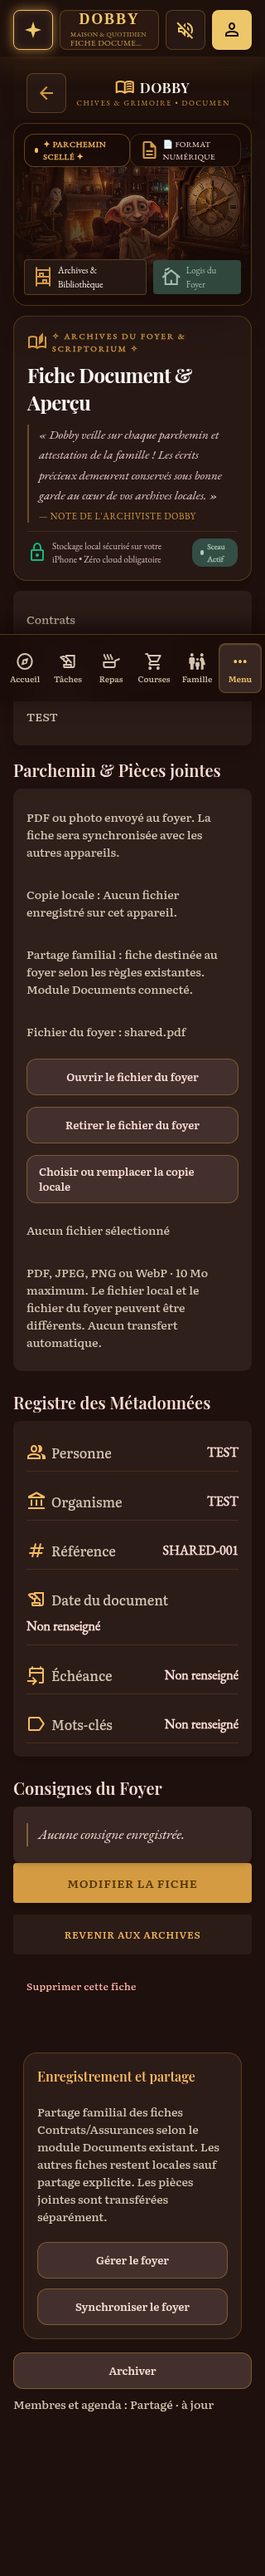
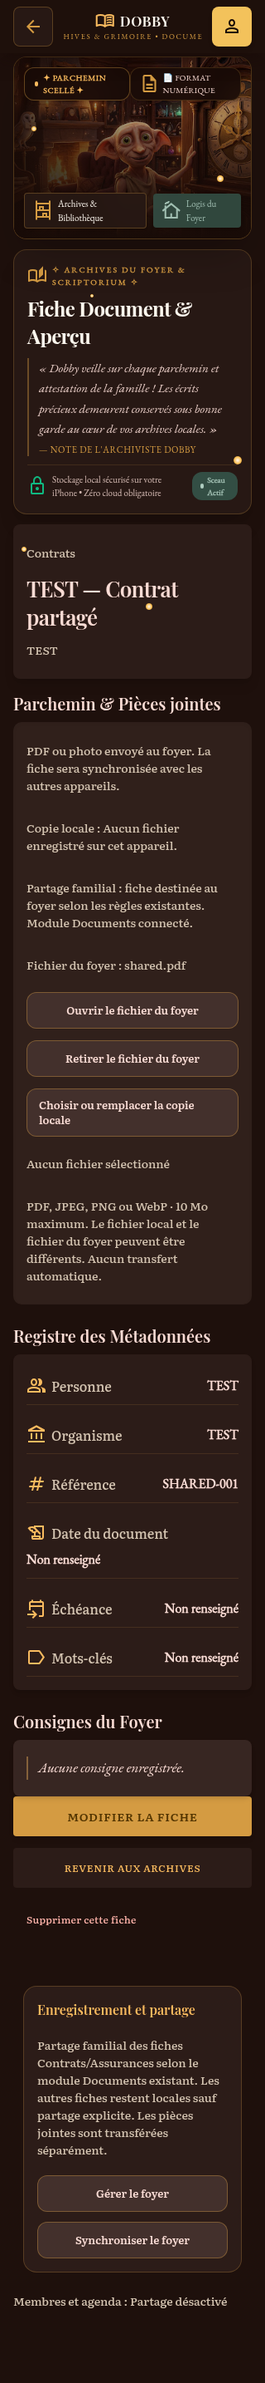
Maintain verified scope across refresh and filter foreign rows safely

diff --git a/essai-stitch-v7/family-engine.js b/essai-stitch-v7/family-engine.js
@@ -7,11 +7,13 @@ window.DobbyFamilyStitchEngine=(()=>{
  const guardSharedWrite=()=>{if(window.DobbyFamilyStitch?.sharedReadOnly?.())throw Error('Les données du foyer sont en lecture seule pour ce profil.');};
  function notices(callback){win().alert=message=>{lastError=String(message);callback(lastError);};}
  function read(){
-  const state=evaluate('return JSON.parse(JSON.stringify(st));');
+  const native=win(),access=native.DobbyFamilyUI?.childAccessState?.();
+  const waiting=access?.restricted&&!access.active;
+  const state=waiting?{}:evaluate('return JSON.parse(JSON.stringify(st));');
   window.DobbyHealthRuntime?.filterHistoricalState(state);
   const data={state,members:state.familyMembers||[],local:state.famHealth||[],shared:state.sharedHealthVisits||[],events:state.familyEvents||[],contacts:state.famContacts||[]};
-  data.active=Boolean(win().DobbyFamilyUI?.isModuleActive('family'));data.status=win().DobbyFamilyUI?.getModuleStatus('family')||'Statut non disponible';
-  data.upcoming=win().DobbyFamilyAgenda?.upcoming()||[];return data;
+  data.active=!waiting&&Boolean(native.DobbyFamilyUI?.isModuleActive('family'));data.status=waiting?'Accès en cours de vérification.':native.DobbyFamilyUI?.getModuleStatus('family')||'Statut non disponible';
+  data.upcoming=waiting?[]:native.DobbyFamilyAgenda?.upcoming()||[];return data;
  }
  function rewardSummary(memberId){return win().DobbyFamilyMissions?.summary(memberId)||null;}
  function page(extra=''){evaluate('st.page="family";st.extraPage=p.extra;st.detail=null;v23MemberEdit=null;render();',{extra});}

diff --git a/essai-stitch-v5-famille/family-v2.js b/essai-stitch-v5-famille/family-v2.js
@@ -395,10 +395,11 @@ async function healthStorageFetch(method, path, file) {
   if (!healthFileMatches(downloaded, mime)) throw Error('Fichier Santé inattendu.');
   return downloaded;
 }
-async function requireHousehold(startProvider = true) {
+async function requireHousehold(startProvider = true, keepVerified = false) {
   if (!f.session?.user_id) throw Error('Compte sans identifiant utilisateur');
   const epoch = f.epoch;
-  f.checkingEpoch=epoch;f.verifiedContext = null;
+  f.checkingEpoch=epoch;
+  if(!keepVerified)f.verifiedContext=null;
   const rows = await authorized('GET', 'dobby_v2_memberships?select=household_id&active=eq.true&user_id=eq.' +
     encodeURIComponent(f.session.user_id));
   if (epoch !== f.epoch) throw Error('Session remplacée');
@@ -1042,7 +1043,7 @@ function ensureAccess(){
     guard();
     const child=childRelease()&&context.profile.memberCategory==='child';
     try {
-     await requireHousehold(!childRelease());guard();
+     await requireHousehold(!childRelease(),childRelease()&&Boolean(verifiedBinding()));guard();
      if(f.householdId!==context.householdId)throw Error('Le contexte serveur ne correspond pas au foyer autorisé.');
      if(!f.provider?.adoptVerifiedFamily)throw Error('Le registre familial natif est indisponible.');
      const binding={...context,identityVerified:true};

diff --git a/essai-stitch-v7/cuisine-engine.js b/essai-stitch-v7/cuisine-engine.js
@@ -20,6 +20,11 @@ window.DobbyCuisineEngine = (() => {
     evaluate('st.extraPage=""; st.detail=p.detail; st.page=p.page; st.cook=false; st.tmEditor=false; st.tmView=false; render();', { page, detail });
   }
   function read(mealContext=null) {
+    const access=childAccess();
+    if(access?.restricted&&!access.active)return {
+      state:{planned:{},tmAdaptations:{},famHealth:[],sharedHealthVisits:[],familyDocs:[]},
+      recipes:[],customIds:[],baseIds:[],draft:[],pending:0,batch:null,detailPortions:0,mealStatus:null
+    };
     const data = evaluate('return {state:JSON.parse(JSON.stringify(st)),recipes:JSON.parse(JSON.stringify(allRecipes())),customIds:custom.map(r=>r.id),baseIds:BASE.map(r=>r.id),draft:shoppingDraft(),pending:pendingMeals().length,batch:batchCandidate,detailPortions:st.detail?(Object.values(st.planned).find(m=>m.id===st.detail)?portionCount(Object.values(st.planned).find(m=>m.id===st.detail)):st.people):st.people};');
     window.DobbyHealthRuntime?.filterHistoricalState(data.state);
     if(childAccess()?.restricted){

diff --git a/docs/dobby-v7/comptes-enfants/tests/run-local.py b/docs/dobby-v7/comptes-enfants/tests/run-local.py
@@ -20,12 +20,43 @@ lot1 = run_path(str(DOC / 'runes-lot1/test-postgres.py'))
 docker, sql, rpc, op, uid, quote, encode = (lot1[k] for k in ('docker','sql','rpc','op','uid','quote','encode'))
 container, image = lot1['CONTAINER'], lot1['IMAGE']
 rest = container + '-rest'
+storage = container + '-storage'
 JWT_KEY = uuid4().hex + uuid4().hex
 REST_IMAGE = 'postgrest/postgrest:v14.8@sha256:4173b72e0be29cf15349dc827798c3e464c5f2cc7f9c1697022f9cd1874b4c36'
+STORAGE_IMAGE = 'supabase/storage-api:v1.89.12@sha256:8526956cb462e9f7d392e9848ec77133b2769982ed614e9753cc687e8e4339a6'
 
 
 def setup_storage():
-    sql("""
+    if args.storage_http:
+        docker('run','--rm','--detach','--name',storage,'--network',container,'--publish','127.0.0.1::5000',
+               '-e',f'DATABASE_URL=postgres://dobby_lot1_admin@{container}:5432/dobby_lot1',
+               '-e',f'AUTH_JWT_SECRET={JWT_KEY}','-e','DB_INSTALL_ROLES=true','-e','STORAGE_BACKEND=file',
+               '-e','FILE_STORAGE_BACKEND_PATH=/tmp/dobby-child-files','-e','GLOBAL_S3_BUCKET=fixture',
+               '-e','FILE_SIZE_LIMIT=1048576','-e','NODE_ENV=test','-e','TENANT_ID=fixture',
+               '-e','REGION=local','-e','S3_PROTOCOL_ENABLED=false',STORAGE_IMAGE)
+        global storage_origin
+        storage_origin = 'http://' + docker('port',storage,'5000/tcp')
+        for _ in range(100):
+            try:
+                with urlopen(storage_origin+'/status',timeout=2) as response:
+                    if response.status==200:
+                        break
+            except OSError:
+                time.sleep(.2)
+        else:
+            raise RuntimeError('Le service Storage local ne démarre pas.')
+        sql("""
+          GRANT USAGE ON SCHEMA storage TO postgres;
+          ALTER TABLE storage.objects OWNER TO postgres;
+          ALTER TABLE storage.buckets OWNER TO postgres;
+          INSERT INTO storage.buckets(id,name,public)
+            SELECT bucket,bucket,false FROM unnest(ARRAY['dobby-family-files','dobby-recipe-images','dobby-health-files']) bucket;
+          GRANT SELECT ON storage.buckets TO authenticated;
+          CREATE POLICY fixture_bucket_metadata ON storage.buckets FOR SELECT TO authenticated
+            USING(id='dobby-family-files');
+        """)
+    else:
+        sql("""
         CREATE SCHEMA storage AUTHORIZATION postgres;
         CREATE TABLE storage.buckets(id text PRIMARY KEY,public boolean NOT NULL);
         ALTER TABLE storage.buckets OWNER TO postgres;
@@ -34,6 +65,8 @@ def setup_storage():
         ALTER TABLE storage.objects OWNER TO postgres;
         CREATE FUNCTION storage.foldername(name text) RETURNS text[] LANGUAGE sql IMMUTABLE
           AS $$ SELECT (string_to_array(name,'/'))[1:array_length(string_to_array(name,'/'),1)-1] $$;
+        """)
+    sql("""
         GRANT USAGE ON SCHEMA storage TO authenticated;
         GRANT SELECT,INSERT,UPDATE,DELETE ON storage.objects TO authenticated;
         ALTER TABLE storage.objects ENABLE ROW LEVEL SECURITY;
@@ -49,6 +82,35 @@ def jwt(actor):
         return base64.urlsafe_b64encode(value).decode().rstrip('=')
     body = b64(b'{"alg":"HS256","typ":"JWT"}') + '.' + b64(json.dumps({'sub':actor,'role':'authenticated','exp':int(time.time())+300}).encode())
     return body + '.' + b64(hmac.digest(JWT_KEY.encode(),body.encode(),'sha256'))
+
+
+def check_storage_http(household, a, b, child, sibling, outsider):
+    content = b'%PDF-1.4\nTEST document familial fictif\n'
+    path = household + '/' + op() + '.pdf'
+
+    def storage_request(method, endpoint, who, data=None):
+        headers = {'Content-Type':'application/pdf','Cache-Control':'private, no-store','x-upsert':'false'}
+        if who:
+            headers['Authorization'] = 'Bearer '+jwt(who)
+        try:
+            response = urlopen(Request(storage_origin+endpoint,data=data,headers=headers,method=method),timeout=5)
+        except HTTPError as caught:
+            response = caught
+        with response:
+            return response.code, response.read()
+
+    bucket = 'dobby-family-files/' + path
+    uploaded = storage_request('POST','/object/'+bucket,a,content)
+    assert uploaded[0] in (200,201), uploaded
+    for actor in (a,b):
+        assert storage_request('GET','/object/authenticated/'+bucket,actor)==(200,content)
+    for actor in (None,child,sibling,outsider):
+        assert storage_request('GET','/object/authenticated/'+bucket,actor)[0]>=400
+    for actor in (child,sibling,outsider):
+        alternate = 'dobby-family-files/' + household + '/' + op() + '.pdf'
+        assert storage_request('POST','/object/'+alternate,actor,content)[0]>=400
+    assert storage_request('GET','/object/public/'+bucket,None)[0]>=400
+    print('PASS Storage HTTP 1.89.12 : fichier famille accessible aux deux parents et refusé aux deux enfants, hors foyer et public')
 
 
 def http(origin, path, actor=None, body=None, status=200, token=None):
@@ -111,7 +173,7 @@ def run(a,b,child,outsider,hh,read,write,snapshot,mission):
     sql(f"UPDATE public.dobby_v2_modules SET payload={encode(payload)} WHERE household_id={quote(hh)} AND module='family';",a)
     for module in ('recipes','menus','house','contracts'):
         sql(f"INSERT INTO public.dobby_v2_modules(household_id,module,payload) VALUES({quote(hh)},{quote(module)},'{{}}');",a)
-    sql(f"INSERT INTO storage.objects VALUES('dobby-family-files',{quote(hh+'/private.pdf')}),('dobby-recipe-images',{quote(hh+'/recipe.jpg')}),('dobby-health-files',{quote(hh+'/health.pdf')});")
+    sql(f"INSERT INTO storage.objects(bucket_id,name) VALUES('dobby-family-files',{quote(hh+'/private.pdf')}),('dobby-recipe-images',{quote(hh+'/recipe.jpg')}),('dobby-health-files',{quote(hh+'/health.pdf')});")
     assert raw(child)==['menus','recipes'] and set(raw(a))=={'contracts','family','house','menus','missions','recipes'}
     assert sql("SELECT string_agg(bucket_id,',' ORDER BY bucket_id) FROM storage.objects;",child)=='dobby-health-files,dobby-recipe-images'
     assert sql("SELECT count(*) FROM storage.objects WHERE bucket_id='dobby-family-files';",a)=='1'
@@ -150,6 +212,8 @@ def run(a,b,child,outsider,hh,read,write,snapshot,mission):
     print('PASS deux enfants canoniques, invitation native, RLS et Storage familial, projection Famille et magie propre')
 
     run_missions(a,b,child,sibling,hh,read,write,snapshot,mission)
+    if args.storage_http:
+        check_storage_http(hh,a,b,child,sibling,outsider)
     run_http(a,b,child,sibling,outsider,hh,invite=invitation['token'],acceptance=acceptance)
 
 
@@ -197,7 +261,7 @@ def run_missions(a,b,child,sibling,hh,read,write,snapshot,mission):
         child,error='42501')
     assert read()==before
     assert sql("WITH changed AS(UPDATE public.dobby_v2_modules SET payload='{}' WHERE module='recipes' RETURNING 1) SELECT count(*) FROM changed;",child)=='0'
-    sql(f"INSERT INTO storage.objects VALUES('dobby-family-files',{quote(hh+'/nope')});",child,error='42501')
+    sql(f"INSERT INTO storage.objects(bucket_id,name) VALUES('dobby-family-files',{quote(hh+'/nope')});",child,error='42501')
     print('PASS refus des écritures brutes, du writer V2, des appels privés et des intentions concernant autrui, même membership owner')
 
     first_revision = read()['revision']
@@ -297,7 +361,10 @@ def run_http(a,b,child,sibling,outsider,hh,invite,acceptance):
     assert http(origin,family,status=401)['code']=='42501'
     assert http(origin,family,outsider,status=403)['code']=='42501'
     assert {x['module'] for x in http(origin,raw,child)}=={'menus','recipes'}
-    objects='/objects?select=name&bucket_id=eq.dobby-family-files'
+    unfiltered = http(origin,'/dobby_v2_modules?select=module,household_id',child)
+    assert {row['household_id'] for row in unfiltered}=={hh}
+    assert {row['module'] for row in unfiltered}=={'menus','recipes'}
+    objects='/objects?select=name&bucket_id=eq.dobby-family-files&name=eq.'+hh+'/private.pdf'
     assert http(origin,objects,child)==[] and len(http(origin,objects,a))==1
     status='/rpc/dobby_v7_child_access_status?p_member_id=second-child'
     suspend='/rpc/dobby_v7_suspend_child_access'
@@ -362,12 +429,13 @@ def main():
                'for i in {1..60}; do pg_isready -h 127.0.0.1 -U postgres -d dobby_lot1 >/dev/null && exit 0; sleep 1; done; exit 1')
         lot1['main'](run)
     finally:
-        subprocess.run(['docker','rm','-f',rest,container],capture_output=True)
+        subprocess.run(['docker','rm','-f',storage,rest,container],capture_output=True)
         subprocess.run(['docker','network','rm',container],capture_output=True)
 
 
 if __name__ == '__main__':
     parser = argparse.ArgumentParser(description=__doc__)
     parser.add_argument('--red',action='store_true')
+    parser.add_argument('--storage-http',action='store_true')
     args = parser.parse_args()
     main()
